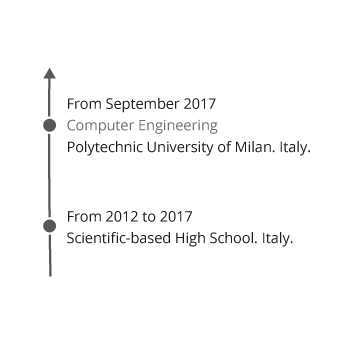
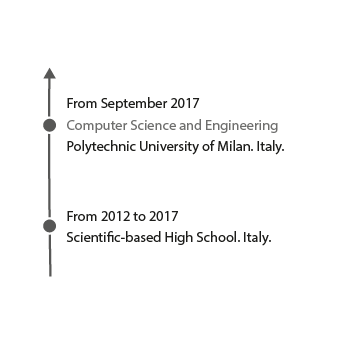
updates
- updated bio
- updated edu img

Changed region(s): [[0.1714, 0.3429, 0.8857, 0.4571], [0.1714, 0.6, 0.8286, 0.7143], [0.1714, 0.2571, 0.6286, 0.3143]]

diff --git a/index.html b/index.html
@@ -43,7 +43,7 @@
                 </div>
                 <div class="row-md-2 paragraph div-paragraph-1 vertical-padding-0">
                     <p class="paragraph-title">About</p>
-                    <p class="paragraph-text text-style"> I am a guy who needs to hold a vision, or should I say one for each area of life or project on which I work, and tries to see the big picture while staying fully focused on execution’s details. <br><br>Like many others, I realized my passion for technology when I was very young. I’ve learned the basics of web development and tried out the simplest back-end solutions before the age of 14. <br>One year later I started working on a 2 years long startup project within a team of 3 people. <br>Creating a social network (based on iOS) from scratch aiming for perfection, trying to launch it and seeing it failing miserably, I learned many tech, business and leadership skills.<br>Meanwhile I didn’t want to invest energy in my new passion for business I did with leadership. This is why two years ago, while still working on Mobile Development, I took part of a summer Exchange program in Brazil and last summer I travelled alone in San Francisco. My desire was to understand better people’s mind in order to lead them towards goals. <br>Back to Italy I set up a team of six people and led it very seriously in order to found a startup. But eventually I realized my knowledge in both business and tech wasn’t enough to build an interesting tech startup. This is why I decided to put aside for a while the idea of founding a startup and decided to focus on my tech knowledge and skills. <br>Now, I’ve just finished my first year of Computer Science Engineering with a GPA of 29,5/30 and I’m eager to work on complex tech projects the entire summer. </p>
+                    <p class="paragraph-text text-style"> I am a guy who needs to hold a vision, or should I say one for each area of life or project on which I work, and tries to see the big picture while staying fully focused on execution details. <br><br>Like many others, I realized my passion for technology when I was very young. I’ve learned the basics of web development and tried out the simplest back-end solutions before the age of 14. One year later I started working on a 2 years long startup project within a team of 3 people.<br>Creating a social network ( based on iOS ) from scratch aiming for perfection, trying to launch it and seeing it failing miserably, I learned many tech, business and leadership skills. Meanwhile I didn’t want to invest energy in my new passion for business I did with leadership. This is why two years ago, while still working on Mobile Development, I took part of a summer Exchange program in Brazil and last year I travelled alone in San Francisco. My desire was to understand better people’s mind in order to lead them towards goals. <br> Back to Italy I set up a team of six people and led it very seriously in order to found a startup. But eventually I realized my knowledge in both business and tech wasn’t enough to build an interesting tech startup. This is why I decided to put aside for a while the idea of founding a startup and decided to focus on my tech knowledge and skills.  <br>After the first year of University, which I concluded with a GPA of 29,5/30, I've spent the summer doing an Internship as a Software Engineer and trying to explore research areas dealing with Machine Learning. <br>In the next future I would like to face interesting challenges related with Software Engineering and research in Machine Intelligence.<br><br><br><br><br>Languages: Swift, C, Typescript, Python, C#, .NET, HTML, CSS. <br> Technologies/Frameworks: Mobile (iOS), Web App (Angular), Web APIs. <br>Others: Heroku platform, GIT, Adobe Photoshop and Illustrator.  </p>
                 </div>
                 <div class="row-md-3 paragraph div-paragraph-2 vertical-padding-0">
                     <p class="paragraph-title">Ways to get in touch</p>
@@ -51,7 +51,7 @@
                         <div class="col-md-2"><a href="https://www.linkedin.com/in/riccardo-de-santi-426139135" target="_blank"><img src="images/linked-in.png" onmouseover="this.src='images/linked-in-colored.png'" onmouseout="this.src='images/linked-in.png'"></a> </div>
                         <div class="col-md-2"><a href="https://www.facebook.com/rikydesanti" target="_blank"><img src="images/facebook.png" onmouseover="this.src='images/facebook-colored.png'" onmouseout="this.src='images/facebook.png'"></a> </div>
                         <div class="col-md-2"><a href="https://twitter.com/desariky" target="_blank"><img src="images/twitter.png"  onmouseover="this.src='images/twitter-colored.png'" onmouseout="this.src='images/twitter.png'"></a> </div>
-                        <div class="col-md-2"><a href="https://www.instagram.com/desariky/" target="_blank"><img src="images/medium.png" onmouseover="this.src='images/medium-colored.png'" onmouseout="this.src='images/medium.png'"></a> </div>
+                        <div class="col-md-2"><a href="https://www.instagram.com/desariky/" target="_blank"><img src="images/instagram.png" onmouseover="this.src='images/instagram-colored.png'" onmouseout="this.src='images/instagram.png'"></a> </div>
                     </div>
                     <div class="social-email-div"><p class="text-style">or email me at:</p></div>
                     <div class="social-email-div"><a href="mailto:riccardodesantimail@gmail.com" target="_top"><p class="text-style">riccardodesantimail@gmail.com</p></a></div>
@@ -77,7 +77,7 @@
                 </div>
                 <div class="row-md-1 paragraph div-paragraph-5 vertical-padding-0">
                     <p class="paragraph-title">Into the wild</p>
-                    <p class="paragraph-text text-style closer-text">I'm also into Product Management, Business, Entrepreneurship, Math, Philosophy, Psychology, building meaningful international relationships and travelling.<br> Within the IT world I like the idea of becoming an insightful tech lead or technical product manager.</p>
+                    <p class="paragraph-text text-style closer-text">Beyond Software Engineering I am interested in: Machine Intelligence (AI, Robotics), Cognitive Science, Math, Philosophy, Business, Entrepreneurship, Product Management, building meaningful international relationships and travelling.</p>
                     <br>
                     <br>
                     <br>
